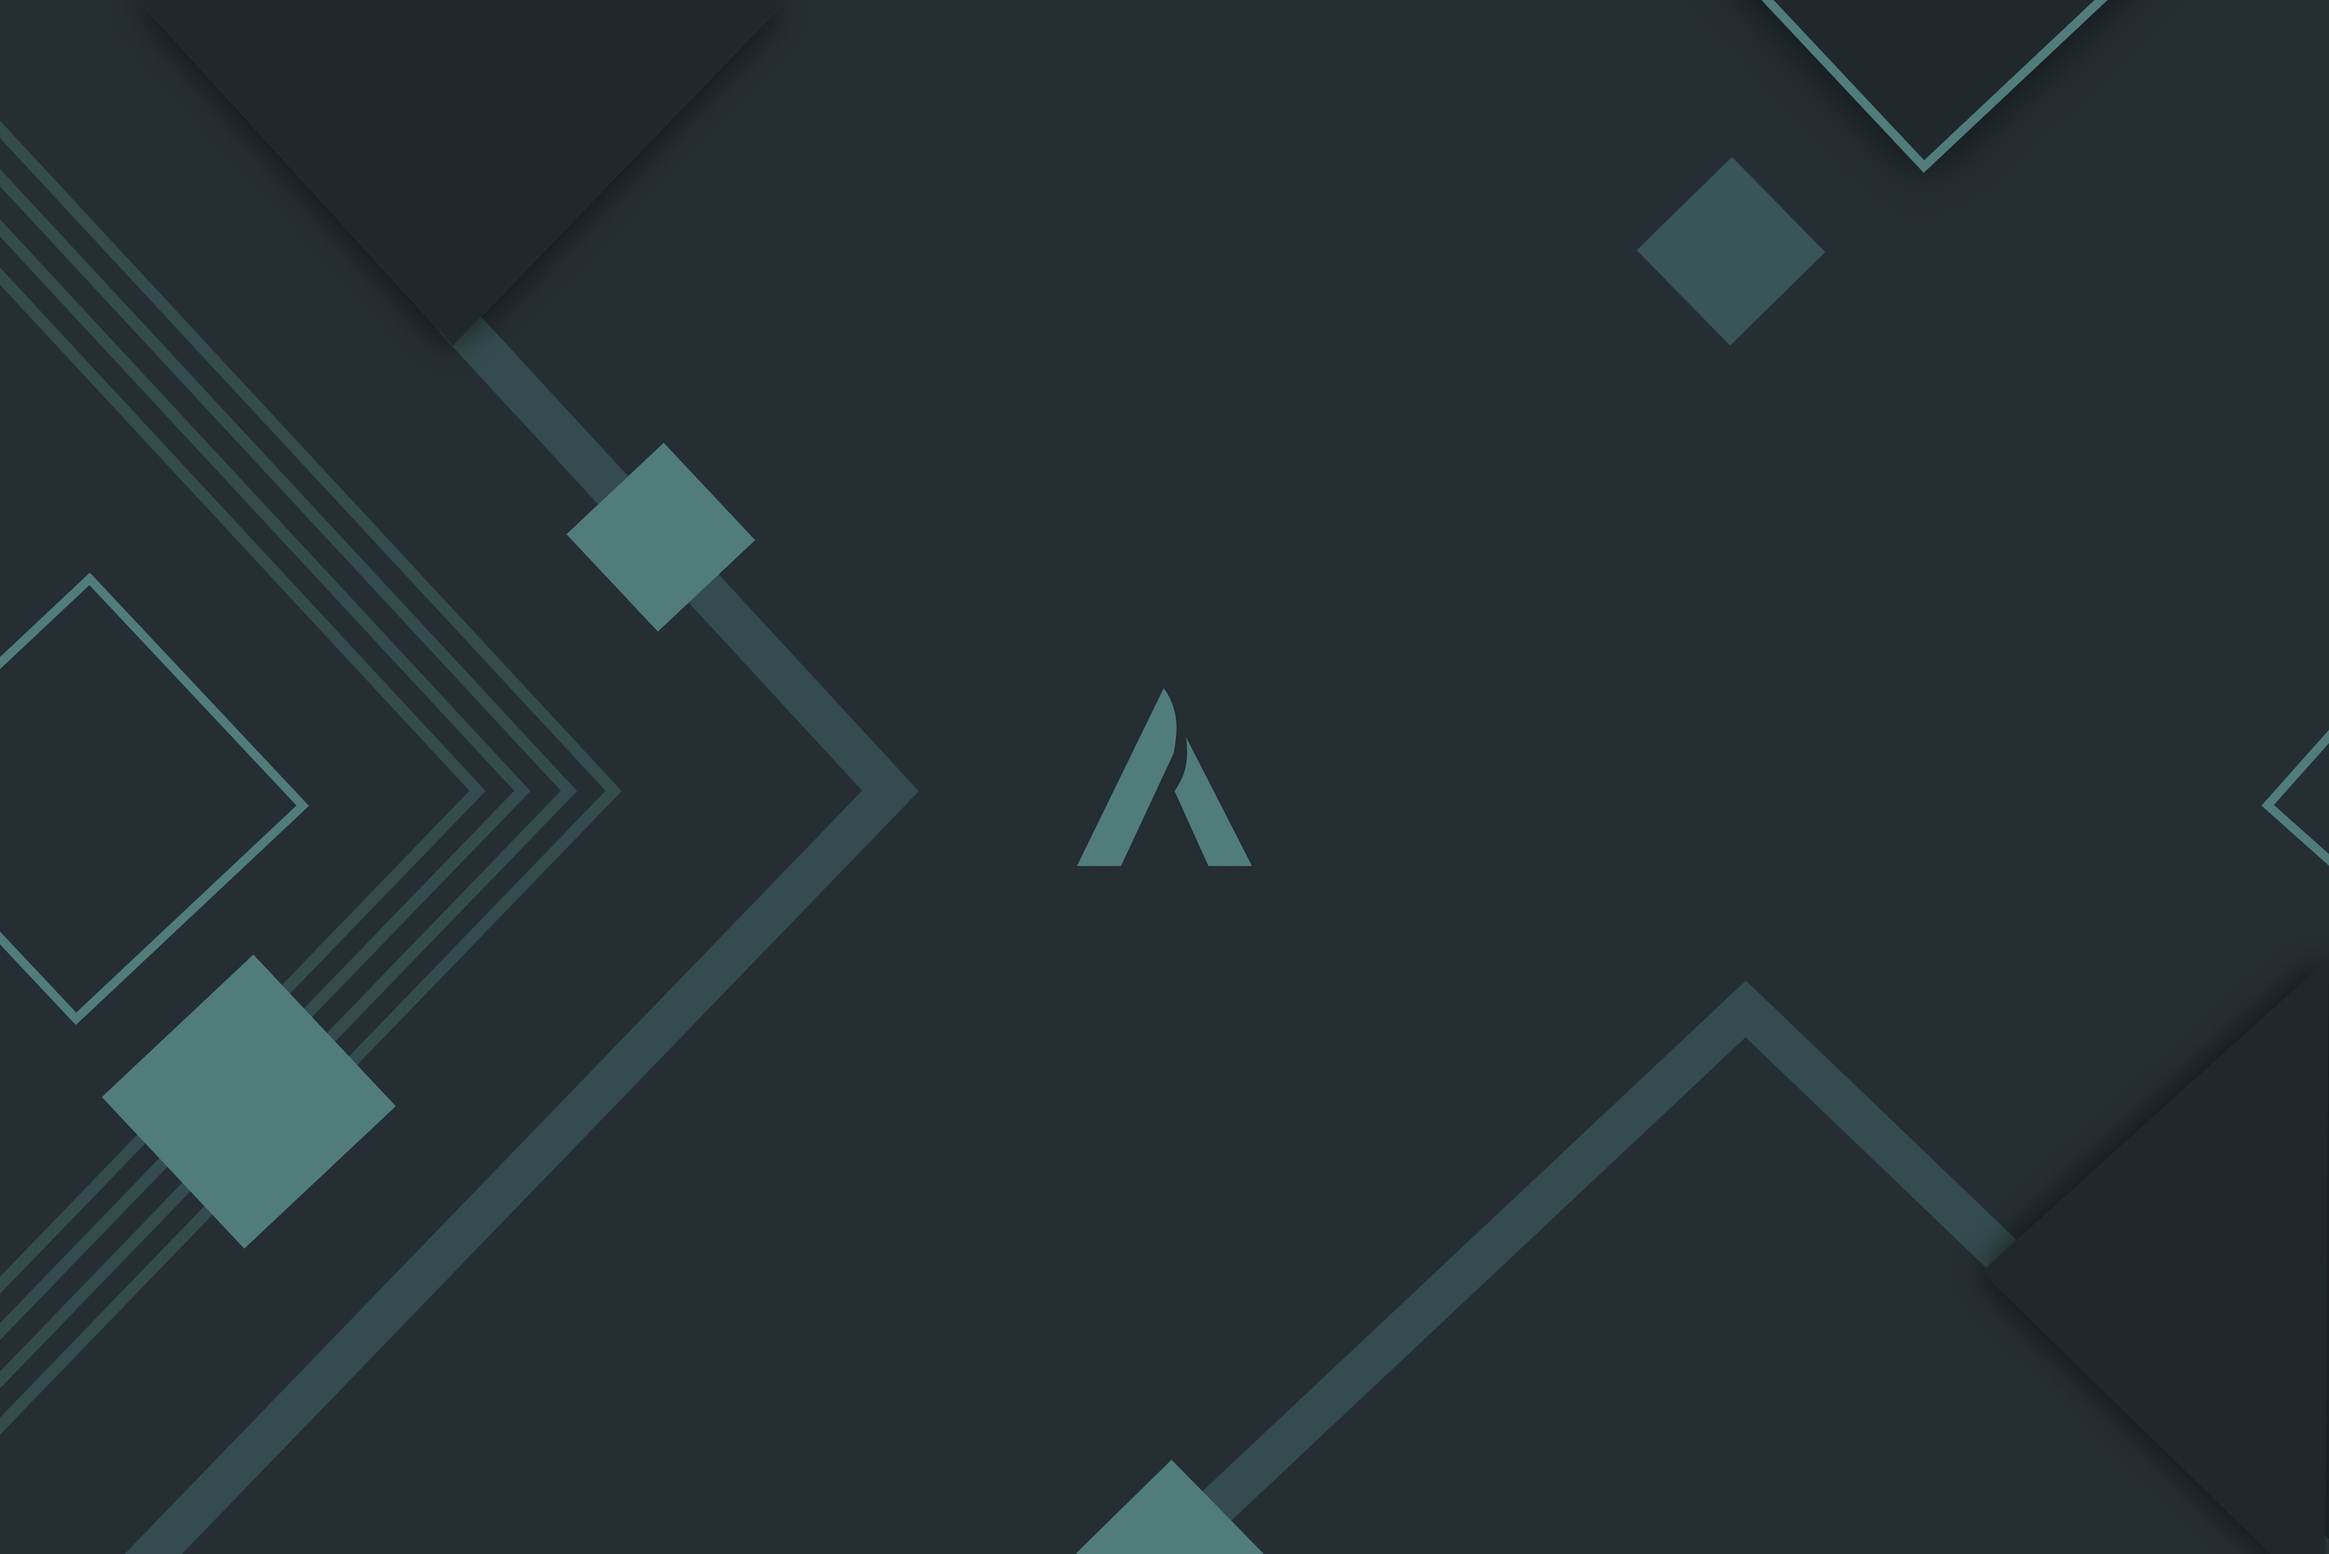
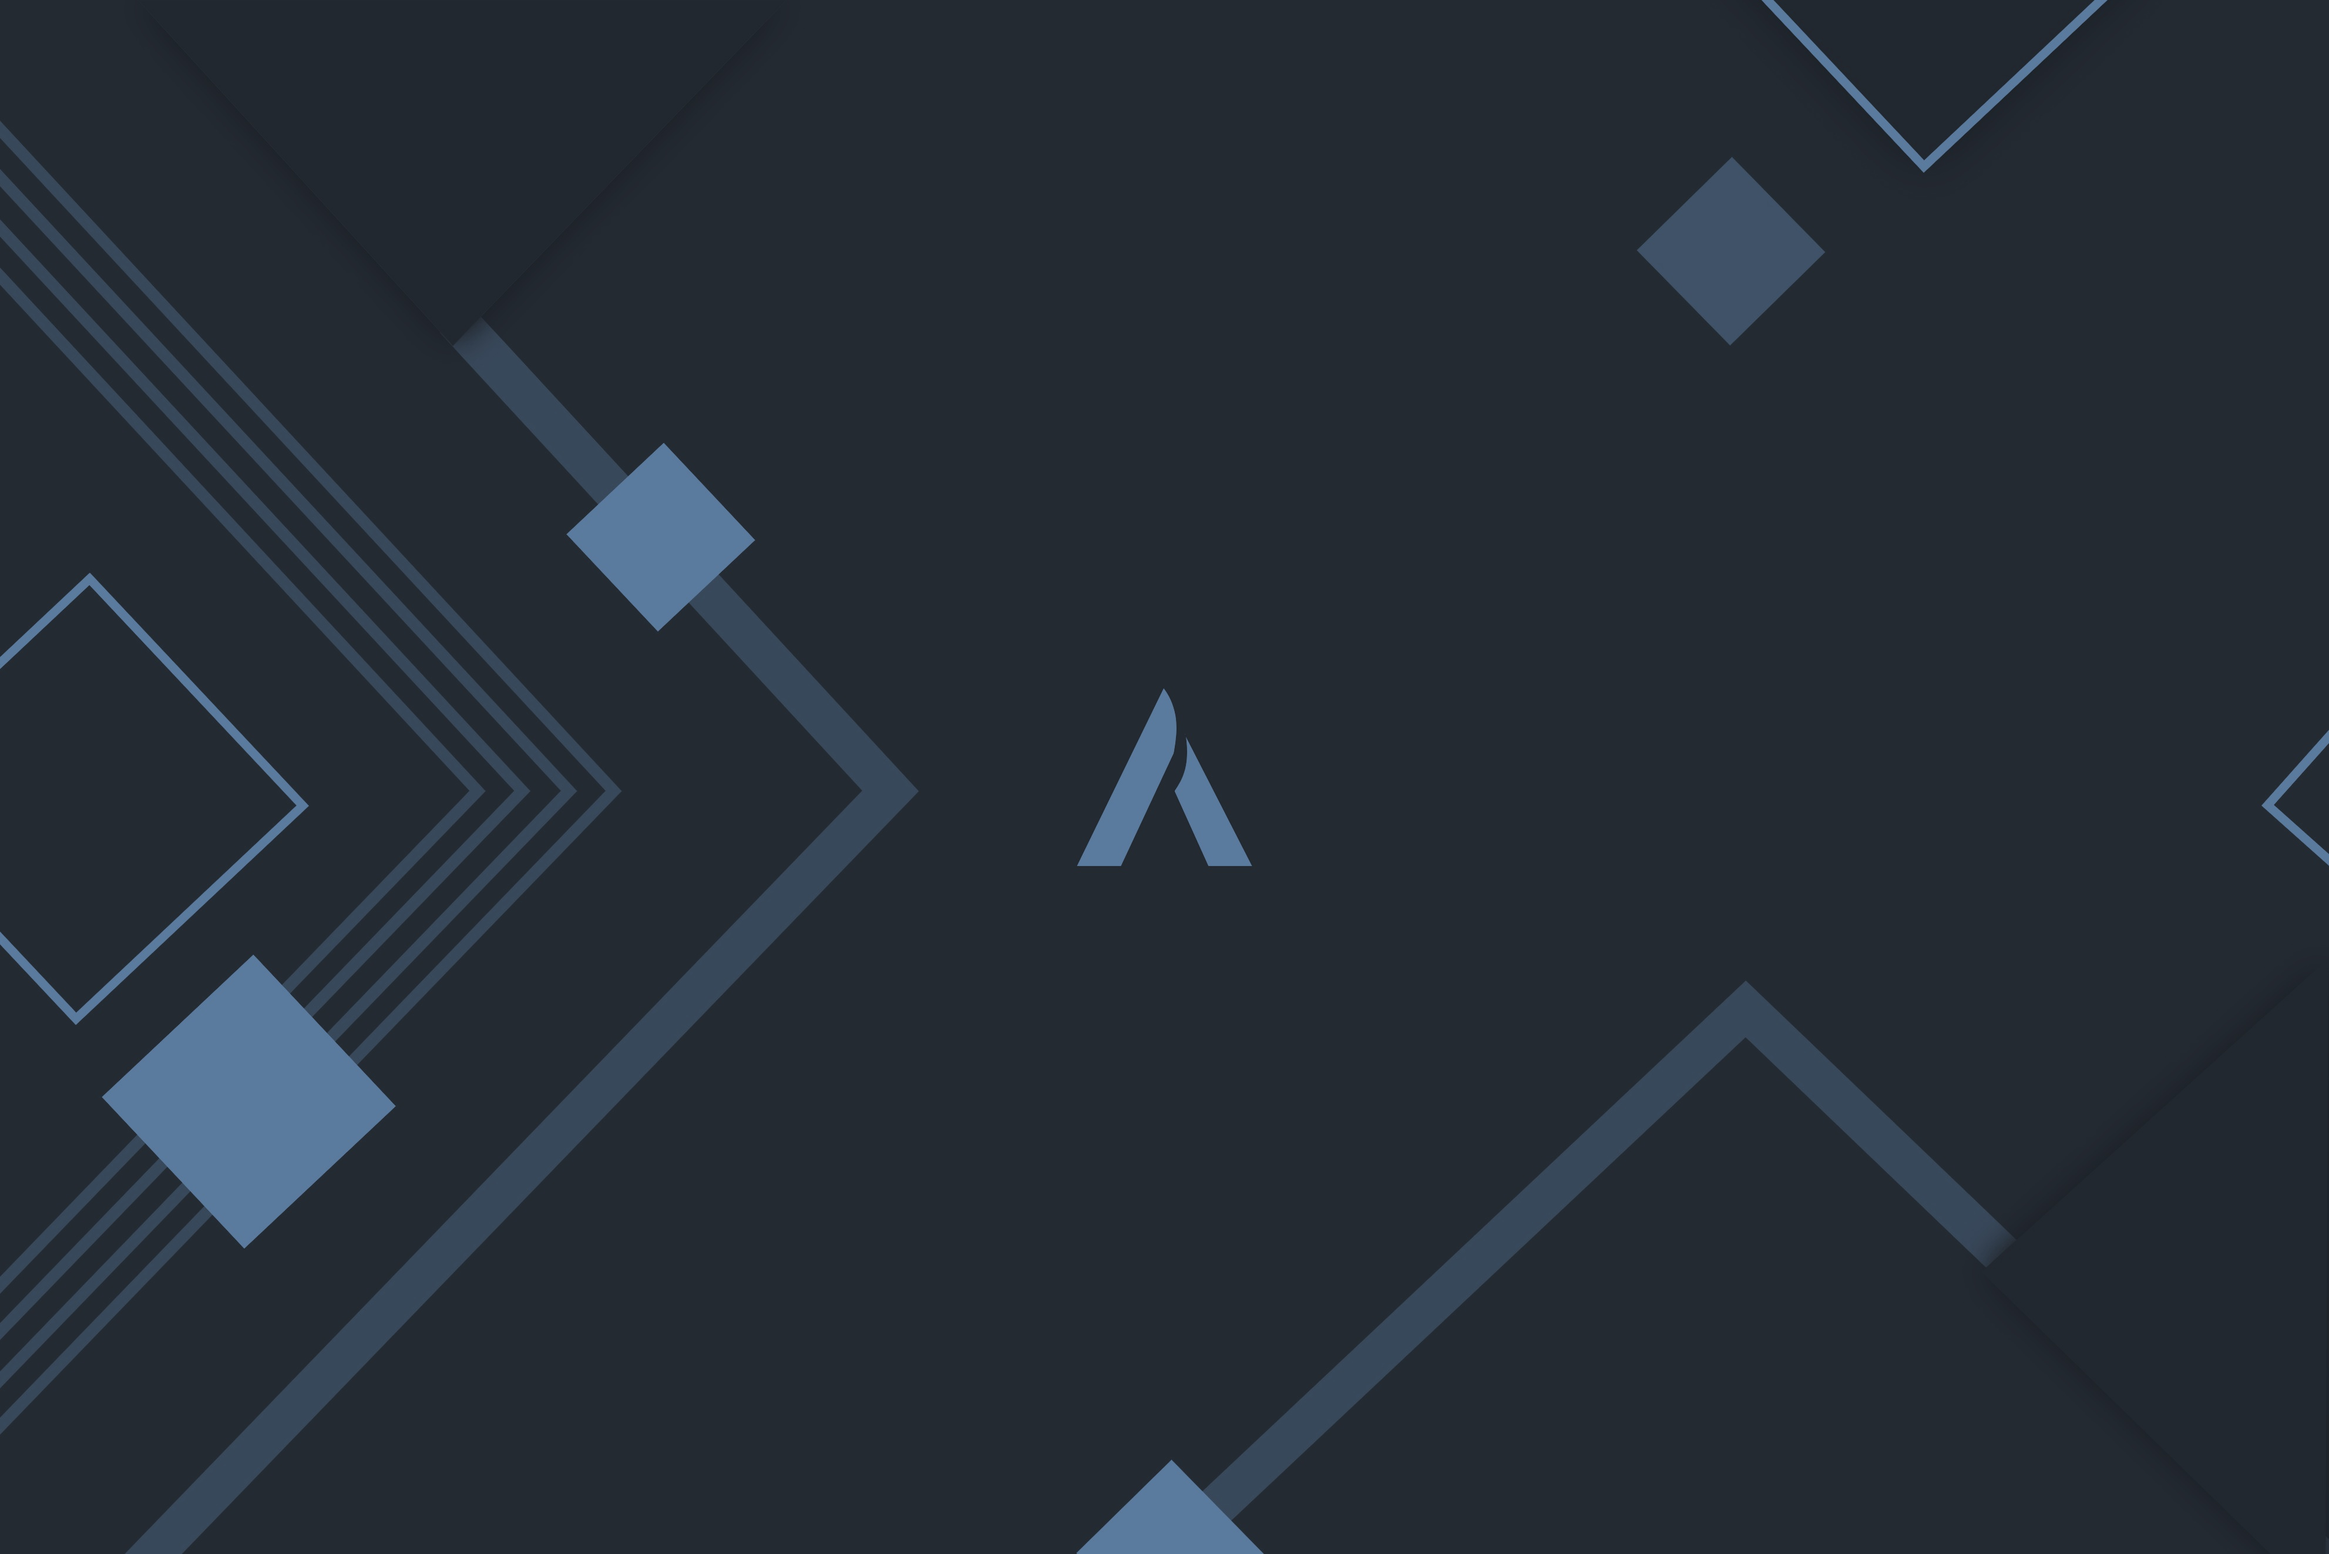
additional

diff --git a/README.md b/README.md
@@ -55,4 +55,4 @@ Secrets (API tokens) go to `~/.config/zsh/secrets.zsh` (`chmod 600`), never to t
 - Timeshift snapshots only `@`; UKIs live on the ESP. After restoring a snapshot with another kernel,
   rebuild them: `sudo mkinitcpio -P`.
 - `theme/plasma/desktoptheme/simpleton` contains unmodified SVGs from Manjaro's Breath theme (CC BY-ND);
-  the wallpaper is Ant-Dark by EliverLara (GPL-3.0).
+  the wallpaper is Ant-Dark by EliverLara (GPL-3.0), recolored to the BreathSlate palette.
